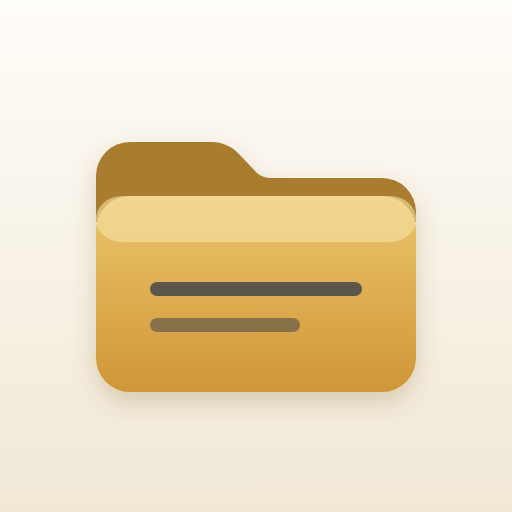
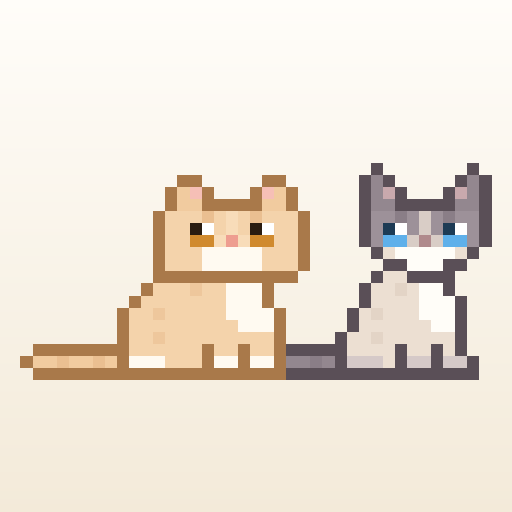
짧은 영상 올리기, 앱 아이콘을 태리·제리로
영상
- mp4/mov/m4v/webm 을 올릴 수 있다. 목록에서는 보라색 ▶ 아이콘,
  누르면 새 탭에서 바로 재생, 공유 페이지에서는 그 자리에서 재생된다
- 저장소가 파일 하나를 정확히 50MB 까지만 받으므로(51MB 는 거부) 올리기 전에 걸러서 알려 준다
- 실제 21MB mp4 로 확인: 공유 페이지에서 readyState 4 · 32.2초 · 1080x1920 재생

아이콘
- 홈 화면 아이콘을 폴더 그림에서 태리·제리가 나란히 앉은 그림으로 교체
- scripts/make-icons.mjs 가 cat-sprites 의 앉은 모습을 읽어 만든다

scripts/test-data.mjs 에 addfile 추가 (진짜 파일을 표시 달아 넣고 clean 으로 지운다)

diff --git a/lib/format.ts b/lib/format.ts
@@ -21,6 +21,17 @@ export function formatSize(bytes: number | null): string {
   return `${mb < 10 ? mb.toFixed(1) : Math.round(mb)} MB`;
 }
 
+/** 영상 파일 확장자 — 브라우저가 그 자리에서 재생할 수 있는 것들 */
+const VIDEO_EXTS = ["mp4", "mov", "m4v", "webm"];
+
+export function isVideo(fileType: string | null): boolean {
+  return VIDEO_EXTS.includes((fileType ?? "").toLowerCase());
+}
+
+/** 파일 고르기 창에서 받아 주는 확장자 (업로드 화면·PC 올리기 영역이 함께 쓴다) */
+export const ACCEPT_EXTS =
+  ".pdf,.ppt,.pptx,.doc,.docx,.xls,.xlsx,.hwp,.hwpx," + VIDEO_EXTS.map((e) => "." + e).join(",");
+
 /** 파일 종류별 배지 (색 + 짧은 라벨) */
 export function fileBadge(fileType: string | null): { label: string; className: string } {
   const t = (fileType ?? "").toLowerCase();
@@ -28,6 +39,7 @@ export function fileBadge(fileType: string | null): { label: string; className: 
   if (t === "ppt" || t === "pptx") return { label: "PPT", className: "bg-orange-100 text-orange-700" };
   if (t === "doc" || t === "docx") return { label: "DOC", className: "bg-blue-100 text-blue-700" };
   if (t === "xls" || t === "xlsx") return { label: "XLS", className: "bg-emerald-100 text-emerald-700" };
+  if (isVideo(t)) return { label: "영상", className: "bg-violet-100 text-violet-700" };
   return { label: (t || "파일").toUpperCase().slice(0, 4), className: "bg-zinc-100 text-zinc-600" };
 }
 
@@ -173,10 +185,11 @@ export function matchesQuery(text: string, query: string): boolean {
 
 /**
  * 문서를 눌렀을 때 열 주소.
- * PDF 는 브라우저가 그 자리에서 보여주고, 그 밖의 문서(엑셀·워드·PPT·한글)는
- * 기기가 직접 열도록 제목이 붙은 파일 주소를 준다.
+ * PDF 와 영상은 브라우저가 그 자리에서 보여 주고(영상은 탭에서 바로 재생된다),
+ * 그 밖의 문서(엑셀·워드·PPT·한글)는 기기가 직접 열도록 제목이 붙은 파일 주소를 준다.
  * (오피스 온라인 뷰어는 열리기까지 10초가 넘게 걸려 안 열리는 것처럼 보였다)
  */
 export function viewUrl(doc: { fileUrl: string; downloadUrl: string; file_type: string | null }): string {
-  return (doc.file_type ?? "").toLowerCase() === "pdf" ? doc.fileUrl : doc.downloadUrl;
+  const t = (doc.file_type ?? "").toLowerCase();
+  return t === "pdf" || isVideo(t) ? doc.fileUrl : doc.downloadUrl;
 }

diff --git a/app/upload/upload-form.tsx b/app/upload/upload-form.tsx
@@ -4,14 +4,21 @@ import Link from "next/link";
 import { useRouter } from "next/navigation";
 import { useState } from "react";
 import { discardUploadedFile, prepareUpload, saveDocument } from "@/app/actions";
-import type { Folder } from "@/lib/documents";
-import { extFromFileName, flattenFolders, formatSize, parseTags, titleFromFileName } from "@/lib/format";
+import { MAX_FILE_BYTES, type Folder } from "@/lib/documents";
+import {
+  ACCEPT_EXTS,
+  extFromFileName,
+  flattenFolders,
+  formatSize,
+  parseTags,
+  titleFromFileName,
+} from "@/lib/format";
 import { tellCats } from "@/lib/cat-events";
 import { supabaseBrowser } from "@/lib/supabase-browser";
 import BackIcon from "@/app/back-icon";
 import FileIcon from "@/app/file-icon";
 
-const ACCEPT = ".pdf,.ppt,.pptx,.doc,.docx,.xls,.xlsx,.hwp,.hwpx";
+const ACCEPT = ACCEPT_EXTS;
 
 type Row = {
   file: File;
@@ -43,13 +50,19 @@ export default function UploadForm({
 
   function pickFiles(fileList: FileList | null) {
     if (!fileList) return;
-    const picked = [...fileList].map<Row>((file) => ({
-      file,
-      title: titleFromFileName(file.name),
-      state: "대기",
-    }));
+    const all = [...fileList];
+    // 저장소가 50MB 까지만 받는다 — 올리기 전에 걸러 준다 (영상은 여기 걸리기 쉽다)
+    const tooBig = all.filter((f) => f.size > MAX_FILE_BYTES);
+    const picked = all
+      .filter((f) => f.size <= MAX_FILE_BYTES)
+      .map<Row>((file) => ({ file, title: titleFromFileName(file.name), state: "대기" }));
+
     setRows((prev) => [...prev, ...picked]);
-    setError("");
+    setError(
+      tooBig.length
+        ? `${tooBig.map((f) => f.name).join(", ")} — ${formatSize(MAX_FILE_BYTES)}보다 커서 올릴 수 없습니다.`
+        : "",
+    );
   }
 
   function onDrop(e: React.DragEvent) {
@@ -157,8 +170,11 @@ export default function UploadForm({
           {dragging ? "여기에 놓으세요" : "파일 선택"}
         </span>
         <span className="mt-1 text-base text-zinc-400">
-          PDF · PPT · DOC · XLS · HWP
+          PDF · PPT · DOC · XLS · HWP · 영상
           <span className="hidden sm:inline"> · 끌어다 놓아도 됩니다</span>
+        </span>
+        <span className="mt-1 text-base text-zinc-400">
+          한 개당 {formatSize(MAX_FILE_BYTES)}까지
         </span>
         <input
           type="file"

diff --git a/app/quick-upload.tsx b/app/quick-upload.tsx
@@ -2,7 +2,8 @@
 
 import { useRouter } from "next/navigation";
 import { useState } from "react";
-import { extFromFileName, titleFromFileName } from "@/lib/format";
+import { MAX_FILE_BYTES } from "@/lib/documents";
+import { ACCEPT_EXTS, extFromFileName, formatSize, titleFromFileName } from "@/lib/format";
 import { tellCats } from "@/lib/cat-events";
 import { supabaseBrowser } from "@/lib/supabase-browser";
 import { discardUploadedFile, prepareUpload, saveDocument } from "./actions";
@@ -21,11 +22,17 @@ export default function QuickUpload({ folderId }: { folderId: string | null }) {
   const [error, setError] = useState("");
 
   async function upload(files: FileList | File[]) {
-    const list = [...files];
+    const all = [...files];
+    // 저장소가 50MB 까지만 받는다 — 올리기 전에 걸러 준다
+    const tooBig = all.filter((f) => f.size > MAX_FILE_BYTES);
+    const list = all.filter((f) => f.size <= MAX_FILE_BYTES);
+    if (tooBig.length) {
+      setError(`${tooBig.length}개가 ${formatSize(MAX_FILE_BYTES)}보다 커서 빠졌습니다.`);
+    }
     if (list.length === 0) return;
 
     setBusy(true);
-    setError("");
+    if (!tooBig.length) setError("");
     setTotal(list.length);
     setDone(0);
 
@@ -64,7 +71,7 @@ export default function QuickUpload({ folderId }: { folderId: string | null }) {
 
     setBusy(false);
     setTotal(0);
-    if (failed === 0) setError("");
+    if (failed === 0 && !tooBig.length) setError("");
     if (failed < list.length) tellCats("upload");
     router.refresh();
   }
@@ -97,14 +104,14 @@ export default function QuickUpload({ folderId }: { folderId: string | null }) {
               : "파일 올리기"}
         </span>
         <span className="mt-1 text-base text-zinc-400">
-          끌어다 놓거나 눌러서 선택하세요
+          끌어다 놓거나 눌러서 선택하세요 · 영상도 됩니다 (한 개당 {formatSize(MAX_FILE_BYTES)}까지)
         </span>
         {error && <span className="mt-2 text-base text-red-600">{error}</span>}
 
         <input
           type="file"
           multiple
-          accept=".pdf,.ppt,.pptx,.doc,.docx,.xls,.xlsx,.hwp,.hwpx"
+          accept={ACCEPT_EXTS}
           className="hidden"
           disabled={busy}
           onChange={(e) => {

diff --git a/app/s/[id]/page.tsx b/app/s/[id]/page.tsx
@@ -2,7 +2,7 @@ import type { Metadata } from "next";
 import { notFound } from "next/navigation";
 
 import { downloadFileName, fileUrl, getDocument } from "@/lib/documents";
-import { formatSize } from "@/lib/format";
+import { formatSize, isVideo } from "@/lib/format";
 import FileIcon from "@/app/file-icon";
 
 export const dynamic = "force-dynamic";
@@ -35,6 +35,7 @@ export default async function SharePage({ params }: Params) {
   const viewUrl = fileUrl(doc.file_path);
   const downloadUrl = fileUrl(doc.file_path, name);
   const isPdf = (doc.file_type ?? "").toLowerCase() === "pdf";
+  const video = isVideo(doc.file_type);
   const officeUrl = ["ppt", "pptx", "doc", "docx", "xls", "xlsx"].includes(
     (doc.file_type ?? "").toLowerCase(),
   )
@@ -55,7 +56,24 @@ export default async function SharePage({ params }: Params) {
         </div>
       </header>
 
-      {isPdf ? (
+      {video ? (
+        <div className="px-5">
+          {/* 받는 사람이 앱 설치 없이 그 자리에서 본다 */}
+          <video
+            src={viewUrl}
+            controls
+            playsInline
+            preload="metadata"
+            className="w-full rounded-xl border border-zinc-200 bg-black shadow-sm"
+          />
+          <a
+            href={downloadUrl}
+            className="mt-4 block rounded-xl border border-zinc-300 bg-paper py-4 text-center text-xl font-semibold text-zinc-700 active:bg-zinc-100 sm:py-3 sm:hover:bg-zinc-50"
+          >
+            다운로드
+          </a>
+        </div>
+      ) : isPdf ? (
         <>
           {/* PC·안드로이드는 브라우저 내장 뷰어로 바로 보인다 */}
           <iframe

diff --git a/app/file-icon.tsx b/app/file-icon.tsx
@@ -1,4 +1,5 @@
 /** 파일 종류별 아이콘 — 탐색기처럼 문서 모양 + 종류 띠 */
+import { isVideo } from "@/lib/format";
 
 type Spec = { label: string; color: string };
 
@@ -9,6 +10,7 @@ function spec(fileType: string | null): Spec {
   if (t === "doc" || t === "docx") return { label: "DOC", color: "#2B6CB0" };
   if (t === "xls" || t === "xlsx") return { label: "XLS", color: "#2F9E44" };
   if (t === "hwp" || t === "hwpx") return { label: "HWP", color: "#0B7285" };
+  if (isVideo(t)) return { label: "영상", color: "#7048E8" };
   return { label: (t || "FILE").toUpperCase().slice(0, 4), color: "#71717A" };
 }
 
@@ -20,6 +22,7 @@ export default function FileIcon({
   className?: string;
 }) {
   const { label, color } = spec(fileType);
+  const video = isVideo(fileType);
 
   return (
     <svg viewBox="0 0 32 40" className={className} aria-label={label} role="img">
@@ -32,6 +35,8 @@ export default function FileIcon({
       />
       {/* 접힌 모서리 */}
       <path d="M20.5 1.5L29 10h-8.5z" fill="#e4e4e7" stroke="#d4d4d8" strokeWidth="1.5" />
+      {/* 영상은 종이 위에 재생 표시를 하나 더 둔다 */}
+      {video && <path d="M12 11.5l6.5 4-6.5 4z" fill={color} />}
       {/* 종류 띠 */}
       <rect x="1" y="21" width="27" height="13" rx="2.5" fill={color} />
       <text

diff --git a/lib/documents.ts b/lib/documents.ts
@@ -10,6 +10,13 @@ export type Folder = {
 /** 폴더 깊이 제한 — 맨 위(1차) / 2차 / 3차 까지만 */
 export const MAX_FOLDER_DEPTH = 3;
 
+/**
+ * 파일 하나의 최대 크기 — Supabase 저장소가 정확히 50MB 까지만 받는다
+ * (51MB 를 올려 보면 "The object exceeded the maximum allowed size" 로 거부된다).
+ * 올리기 전에 여기서 걸러야 사용자가 한참 기다린 뒤에 실패하지 않는다.
+ */
+export const MAX_FILE_BYTES = 50 * 1024 * 1024;
+
 export type DocView = Doc & { fileUrl: string; downloadUrl: string };
 
 /** 휴지통에 보관하는 기간 */

diff --git a/CLAUDE.md b/CLAUDE.md
@@ -88,7 +88,10 @@ Storage 버킷 `docs` — 파일명은 `uuid.확장자`로 저장 (추측 불가
   PC 목록에는 크기 열 + 날짜 열)
   (#FEE500 바탕 + 말풍선 아이콘. 누르면 폰은 공유시트, PC 는 링크 복사)
 - 공유 링크로 받는 파일 이름은 uuid 가 아니라 `제목.확장자` (Storage `?download=` 사용)
-- 문서 제목을 누르면 **중간 페이지 없이 파일이 바로** 새 탭에서 열린다 (`viewUrl`). PDF 는 파일 주소 그대로,
+- **영상**(mp4/mov/m4v/webm)은 문서와 똑같이 다룬다: 보라색 ▶ 아이콘, 누르면 새 탭에서 바로 재생,
+  공유 페이지 `/s/[id]` 에서는 `<video controls>` 로 그 자리에서 재생 + [다운로드].
+  카톡 보내기도 문서와 같다(공유시트에 영상 파일을 그대로 싣는다)
+- 문서 제목을 누르면 **중간 페이지 없이 파일이 바로** 새 탭에서 열린다 (`viewUrl`). PDF·영상 은 파일 주소 그대로,
   **엑셀·워드·PPT·한글은 제목이 붙은 다운로드 주소**로 열어 기기가 직접 연다
   (Office 온라인 뷰어는 10초 넘게 '로드 중'이라 안 열리는 것처럼 보였다 — 다시 쓰지 말 것).
   `/s/[id]` 는 받는 사람용 페이지로만 쓴다
@@ -104,7 +107,10 @@ Storage 버킷 `docs` — 파일명은 `uuid.확장자`로 저장 (추측 불가
 - '나가기'(로그아웃) 버튼은 두지 않는다
 
 ### 2. 업로드 `/upload`
-- 파일 선택 (여러 개 동시 가능, pdf/ppt/pptx/doc/docx/xlsx)
+- 파일 선택 (여러 개 동시 가능, pdf/ppt/pptx/doc/docx/xlsx/hwp + **짧은 영상** mp4/mov/m4v/webm)
+- **파일 하나에 50MB까지.** Supabase 저장소가 정확히 거기까지만 받는다(51MB는 거부된다).
+  올리기 전에 브라우저에서 걸러서 "50MB보다 커서 올릴 수 없습니다"라고 알려 준다 (`MAX_FILE_BYTES`).
+  긴 영상을 넣으려면 Supabase 를 유료 플랜으로 올려야 한다 (무료: 파일 50MB·전체 1GB)
 - 폴더 선택은 **드롭다운 하나**(하위폴더는 들여쓰기). 폴더가 늘어나도 화면이 안 번진다
 - 제목 자동 채움, 태그 입력 (기존 태그 추천), 메모
 - 파일은 서버를 거치지 않고 브라우저에서 Supabase Storage 로 직접 올린다
@@ -159,7 +165,8 @@ NEXT_PUBLIC_APP_URL=           # 배포 주소, 공유 링크 만들 때 사용
 
 ## 규칙
 - **로컬 개발 서버와 실제 사이트는 같은 Supabase 를 쓴다. 사용자가 실제 제안서를 올려 쓰고 있다.**
-  테스트 문서는 반드시 `node scripts/test-data.mjs add …` 로 넣고 `… clean` 으로 지울 것
+  테스트 문서는 반드시 `node scripts/test-data.mjs add …`(빈 파일) 또는 `… addfile <폴더> <경로> "제목"`(진짜 파일,
+  영상 확인용) 으로 넣고 `… clean` 으로 지울 것
   (memo="__TEST__" 표시가 있는 것만 지운다). 조건 없이 documents/folders 를 지우는
   코드는 어떤 경우에도 실행하지 말 것. 사용자의 파일이 이렇게 한 번 지워진 적이 있다.
 - 설명은 비개발자 기준으로 쉽게. 명령어는 복사해서 붙이면 되게 한 줄씩.
@@ -238,7 +245,11 @@ NEXT_PUBLIC_APP_URL=           # 배포 주소, 공유 링크 만들 때 사용
 
 ## PWA (홈 화면에 추가)
 - `app/manifest.ts` → `/manifest.webmanifest`. 홈 화면 이름은 **자료실**(short_name), 전체 이름은 라이크웨이 자료실
-- 아이콘: 크림(라이크웨이 톤) 바탕 + 골드 폴더 — 남색 바탕은 칙칙하다고 해서 바꿨다. `public/icons/`(192·512·maskable), `app/icon.png`, `app/apple-icon.png`
+- 아이콘: 크림(라이크웨이 톤) 바탕 + **태리와 제리가 나란히 앉은 픽셀 그림**
+  (폴더 그림은 별로라고 해서 바꿨다. 남색 바탕도 칙칙하다고 해서 쓰지 않는다).
+  `node scripts/make-icons.mjs` 가 `lib/cat-sprites.ts` 의 앉은 모습을 그대로 읽어 만든다 —
+  아이콘을 고칠 땐 이 스크립트를 고쳐서 다시 실행할 것.
+  결과: `public/icons/`(192·512·maskable), `app/icon.png`, `app/apple-icon.png`
 - 아이콘·manifest 는 로그인 없이 열려야 한다 (`proxy.ts` matcher 에서 제외돼 있음)
 - 서비스 워커는 두지 않는다 — 로그인·실시간 목록 앱이라 캐시가 낡는 문제가 더 크다
 
